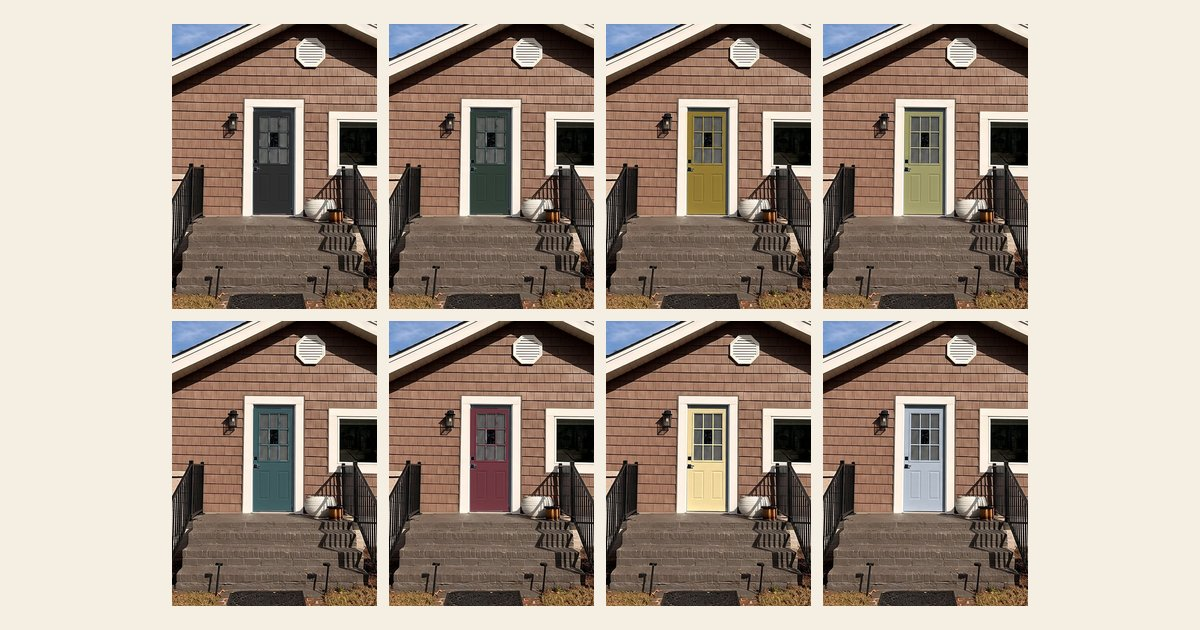
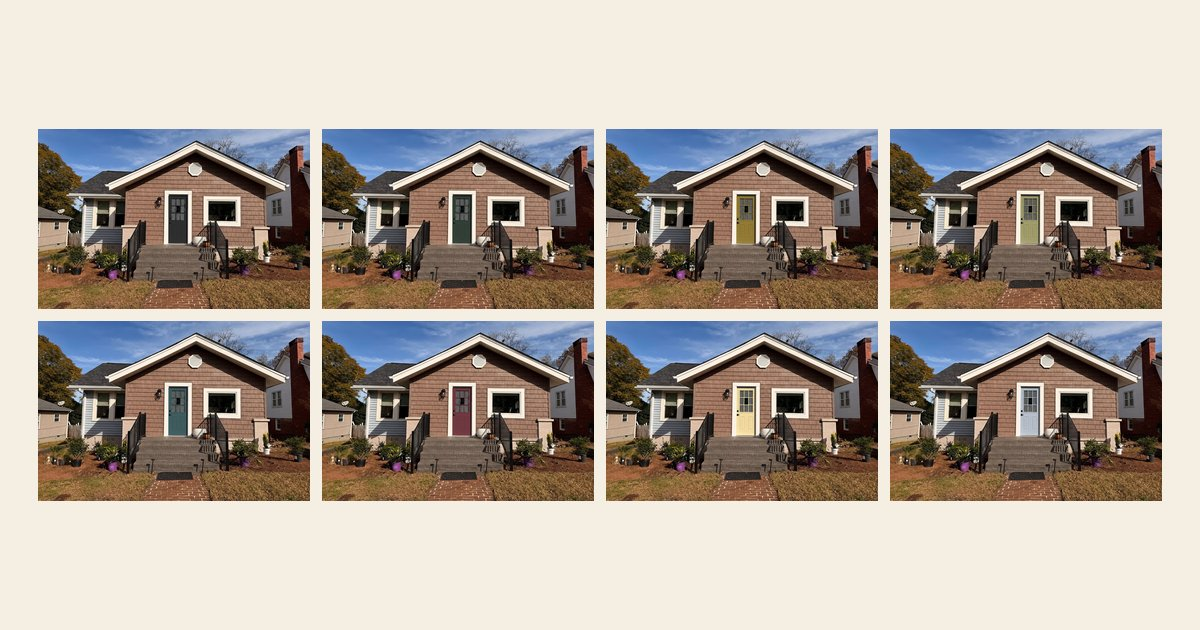
Show the whole house in the carousel and clean up the door mask
Slides are now wide whole-house photos that bleed to the screen edges.
The recolor mask now covers the shaded door edge and bottom sliver, so
no original blue shows through.

Claude-Session: https://claude.ai/code/session_01RxE8PoNwC8KEP2kh6CREf6

diff --git a/index.html b/index.html
@@ -25,7 +25,7 @@
     --line: #E2D9CA;
     --accent: #2F4A63;
     --radius: 16px;
-    --sw: min(66vw, 300px);   /* carousel slide width */
+    --sw: min(82vw, 520px);   /* carousel slide width */
   }
   * { box-sizing: border-box; }
   html { -webkit-text-size-adjust: 100%; }
@@ -52,7 +52,7 @@
   .lede { margin: 0 0 16px; color: var(--muted); font-size: 17px; }
 
   /* ---------- Carousel ---------- */
-  .carousel { position: relative; }
+  .carousel { position: relative; margin-inline: -18px; }  /* bleed to the screen edges */
   .track {
     display: flex; gap: 12px;
     overflow-x: auto; overscroll-behavior-x: contain;
@@ -62,7 +62,7 @@
   }
   .track::-webkit-scrollbar { display: none; }
   .slide {
-    flex: 0 0 var(--sw); aspect-ratio: 600 / 832;
+    flex: 0 0 var(--sw); aspect-ratio: 1152 / 764;
     scroll-snap-align: center; scroll-snap-stop: always;
     border-radius: 14px; overflow: hidden; position: relative;
     background: #E8E0D2; cursor: pointer;
@@ -346,7 +346,7 @@ function buildCarousel() {
       </button>`;
     }
     return `<button type="button" class="slide" data-i="${i}" aria-roledescription="slide" aria-label="${label}">
-      <img src="doors/${c.id}.jpg" alt="Our front door mocked up in ${c.name}" width="600" height="832" ${i > 1 ? 'loading="lazy"' : ""} decoding="async">
+      <img src="doors/${c.id}.jpg" alt="Our house with the front door mocked up in ${c.name}" width="1152" height="764" ${i > 1 ? 'loading="lazy"' : ""} decoding="async">
     </button>`;
   }).join("");
   $("dots").innerHTML = SLIDES.map((c, i) =>
